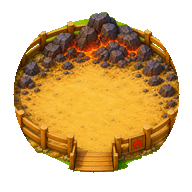
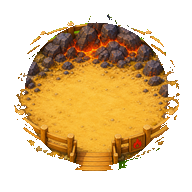
Lift the dirt spine above the lots and tile the lawn.
Paint the packed-earth T on a roads overlay so the gate mouth meets each south bridge instead of hiding under exhibit canvases. Tile grass across the phone so empty viewport is lawn, not a green void. Suppress mid/late events so the zoo is the shot.

Changed region(s): [[0.0625, 0.0625, 0.9375, 0.9062]]

diff --git a/typehouse/js/sprites.js b/typehouse/js/sprites.js
@@ -382,8 +382,8 @@
     var px = data.data;
     var cx = w * 0.5;
     var cy = h * 0.49;
-    var inner = Math.min(w, h) * 0.395;
-    var outer = Math.min(w, h) * 0.432;
+    var inner = Math.min(w, h) * 0.375;
+    var outer = Math.min(w, h) * 0.42;
     var i;
     var x;
     var y;
@@ -447,20 +447,17 @@
     ctx.save();
     ctx.lineCap = "round";
     ctx.lineJoin = "round";
-    ctx.strokeStyle = "#4a2e12";
-    ctx.lineWidth = 30;
+    ctx.strokeStyle = "#5a3a18";
+    ctx.lineWidth = 26;
     ctx.beginPath();
     ctx.moveTo(x1, y1);
     ctx.lineTo(x2, y2);
     ctx.stroke();
-    ctx.strokeStyle = "#8a5a28";
-    ctx.lineWidth = 24;
+    ctx.strokeStyle = "#b07a38";
+    ctx.lineWidth = 20;
     ctx.stroke();
-    ctx.strokeStyle = "#c49048";
-    ctx.lineWidth = 18;
-    ctx.stroke();
-    ctx.strokeStyle = "#d8b06a";
-    ctx.lineWidth = 10;
+    ctx.strokeStyle = "#d4a05a";
+    ctx.lineWidth = 12;
     ctx.stroke();
     ctx.restore();
   }
@@ -568,7 +565,35 @@
     if (IMG.trees && srcW(IMG.trees)) {
       ctx.drawImage(IMG.trees, 0, 0, w, Math.floor(lot * 0.28));
     }
+    /* Grass only. Dirt spine is painted on #roads above the lots. */
+  }
+
+  function paintRoads(canvas, opt) {
+    opt = opt || {};
+    var ctx = canvas.getContext("2d");
+    var lot = opt.lot || 192;
+    var bounds = opt.bounds || { minX: 0, minY: 0, maxX: 2, maxY: 1 };
+    var owned = opt.owned || {};
+    ctx.imageSmoothingEnabled = false;
+    ctx.clearRect(0, 0, canvas.width, canvas.height);
     paintDirtSpine(ctx, lot, bounds, owned);
+    ctx.save();
+    ctx.globalCompositeOperation = "destination-out";
+    Object.keys(owned).forEach(function (k) {
+      var c = owned[k];
+      if (!c || !c.room || c.room === "lobby" || c.room === "transom" || c.room === "larder") return;
+      var o = lotOrigin(c, bounds, lot);
+      ctx.beginPath();
+      ctx.arc(o.x + lot * 0.5, o.y + lot * 0.49, lot * 0.4, 0, Math.PI * 2);
+      ctx.fill();
+    });
+    ctx.restore();
+    var fork = lotPt(1, 1, bounds, lot, 0.5, 0.8);
+    var west = lotPt(0, 1, bounds, lot, 0.5, 0.8);
+    var east = lotPt(2, 1, bounds, lot, 0.5, 0.8);
+    blitCrisp(ctx, "lantern", fork.x + 10, fork.y - 46, 16, 44);
+    blitCrisp(ctx, "lantern", west.x - 8, west.y - 46, 16, 44);
+    blitCrisp(ctx, "lantern", east.x + 8, east.y - 46, 16, 44);
   }
 
   function lotPt(x, y, bounds, lot, fx, fy) {
@@ -609,9 +634,6 @@
         paintVisitorPath(ctx, bridge.x, bridge.y, eo.x, eo.y);
       }
     });
-    blitCrisp(ctx, "lantern", fork.x + 10, fork.y - 46, 16, 44);
-    blitCrisp(ctx, "lantern", west.x - 8, west.y - 46, 16, 44);
-    blitCrisp(ctx, "lantern", east.x + 8, east.y - 46, 16, 44);
   }
 
   function fillDisk(ctx, cx, cy, r, col) {
@@ -693,11 +715,13 @@
       ctx.fillRect(cx - 24, cy - 16, 48, 12);
       return;
     }
-    fillDisk(ctx, cx, cy, r - 2, col);
-    fillDisk(ctx, cx, cy, r - 8, kind === "dynamo" ? "#f0d020" : kind === "dormer" ? "#c4a0e0" : kind === "scullery" ? "#d86a2c" : kind === "vitrine" ? "#e8c428" : col);
+    fillDisk(ctx, cx, cy, r - 1, "#4a8c30");
+    fillDisk(ctx, cx, cy, r - 6, kind === "dynamo" ? "#e8c428" : kind === "dormer" ? "#b48ad4" : kind === "scullery" ? "#c45c26" : kind === "vitrine" ? "#e8d060" : col);
+    ctx.fillStyle = "rgba(42,28,16,0.2)";
+    ctx.fillRect(cx - 8, cy - 6, 16, 10);
     paintFenceRing(ctx, cx, cy, r, "#8a6030");
     ctx.fillStyle = "#6a4220";
-    ctx.fillRect(cx - 10, cy + r - 6, 20, 10);
+    ctx.fillRect(cx - 11, cy + r - 5, 22, 9);
     paintTypeBadge(ctx, cx, cy + r - 40, type);
   }
 
@@ -796,6 +820,7 @@
     paintEmpty: paintEmpty,
     paintFog: paintFog,
     paintPark: paintPark,
+    paintRoads: paintRoads,
     paintIcon: paintIcon,
     guestUrl: guestUrl,
     GUESTS: GUESTS,

diff --git a/typehouse/js/game.js b/typehouse/js/game.js
@@ -1111,7 +1111,11 @@
     seedGuest(s, "Puddlewick", 2, 1, 1);
     seedGuest(s, "Ledgerfrond", 0, 1, 2);
     seedGuest(s, "Zitterplug", 1, 2, 1);
-    blot(s, "A mid-morning zoo. Four pens on the dirt.");
+    s.nextArrival = s.openSec + 100000;
+    s.nextEvent = s.openSec + 100000;
+    s.pendingEvent = null;
+    s.recap = null;
+    blot(s, "A mid-morning zoo. Pens on the dirt.");
   }
 
   function seedLate(s) {
@@ -1166,6 +1170,10 @@
     seedGuest(s, "Flakesmith", 2, 2, 1);
     seedGuest(s, "Specktin", 3, 2, 1);
     seedGuest(s, "Fluekin", 0, 2, 1);
+    s.nextArrival = s.openSec + 100000;
+    s.nextEvent = s.openSec + 100000;
+    s.pendingEvent = null;
+    s.recap = null;
     blot(s, "The grounds filled in. Lamps on the dirt.");
   }
 

diff --git a/typehouse/js/ui.js b/typehouse/js/ui.js
@@ -304,6 +304,12 @@
       grounds.height = ph;
       S.paintPark(grounds, { lot: LOT, bounds: bounds, owned: s.cells });
     }
+    var roads = $("roads");
+    if (roads) {
+      roads.width = pw;
+      roads.height = ph;
+      S.paintRoads(roads, { lot: LOT, bounds: bounds, owned: s.cells });
+    }
     ensureCam(s);
 
     var keep = {};
@@ -519,8 +525,7 @@
     var help = $("btn-help");
     if (build) {
       build.classList.toggle("on", mode === "build");
-      if (s && s.onboard === 0) build.textContent = "BUILD EMBER GROUNDS";
-      else build.textContent = "BUILD";
+      build.textContent = s && s.onboard === 0 ? "BUILD EMBER" : "BUILD";
     }
     if (assign) {
       var wait = s ? T.waiting(s) : [];

diff --git a/typehouse/style.css b/typehouse/style.css
@@ -131,8 +131,10 @@ body {
   touch-action: none;
   padding: 0;
   min-height: 0;
-  background:
-    linear-gradient(180deg, #4aa8e8 0 14%, #7ec8f0 14% 20%, #6ad04c 20% 28%, #4cb83c 28%);
+  background-color: #558214;
+  background-image: url("img/grass.png");
+  background-repeat: repeat;
+  image-rendering: pixelated;
   user-select: none;
   -webkit-user-select: none;
 }
@@ -231,11 +233,20 @@ body {
   background: transparent;
 }
 
-#critters {
+#roads {
   position: absolute;
   left: 0;
   top: 0;
   z-index: 2;
+  pointer-events: none;
+  image-rendering: pixelated;
+}
+
+#critters {
+  position: absolute;
+  left: 0;
+  top: 0;
+  z-index: 3;
   pointer-events: none;
   image-rendering: pixelated;
 }

diff --git a/typehouse/index.html b/typehouse/index.html
@@ -35,6 +35,7 @@
         <div id="park">
           <canvas id="grounds" aria-hidden="true"></canvas>
           <div id="house" aria-label="The Grounds park"></div>
+          <canvas id="roads" aria-hidden="true"></canvas>
           <canvas id="critters" aria-hidden="true"></canvas>
           <div id="pips"></div>
         </div>
